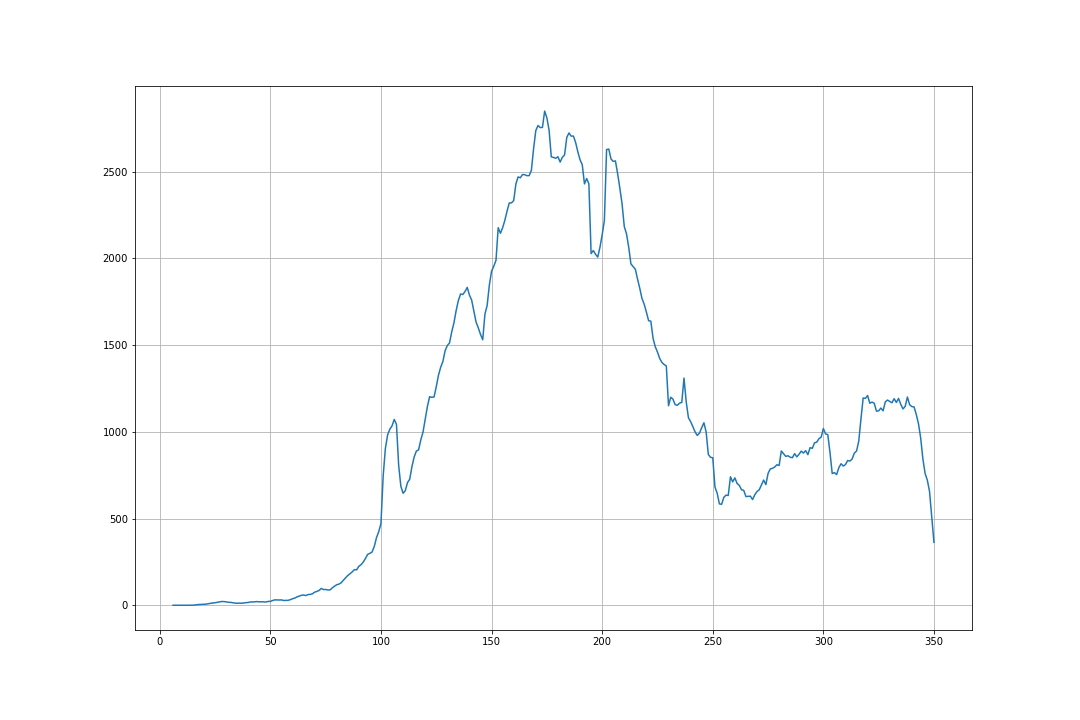
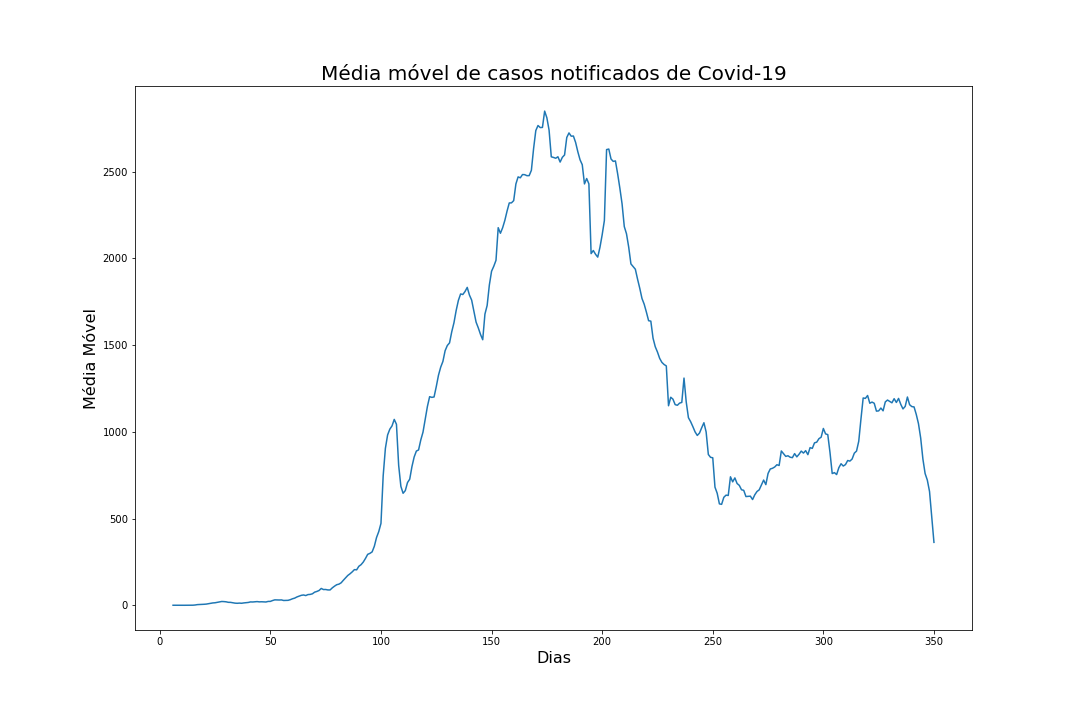
Início do gráfico

Changed region(s): [[0.3056, 0.0917, 0.7333, 0.1222], [0.0611, 0.4278, 0.0917, 0.5806], [0.4889, 0.8861, 0.5194, 0.9167]]

diff --git a/data.py b/data.py
@@ -114,8 +114,10 @@ for i in range(0,goiania.shape[0]-6):
 ### Plotando os gráficos de média móvel
 # Goiás
 plt.figure(figsize=[15,10])
-plt.grid(True)
 plt.plot(goias['media'])
+plt.title('Média móvel de casos notificados de Covid-19', fontsize=20)
+plt.xlabel('Dias', fontsize=16)
+plt.ylabel('Média Móvel', fontsize=16)
 plt.savefig('goias.png')
 
     
